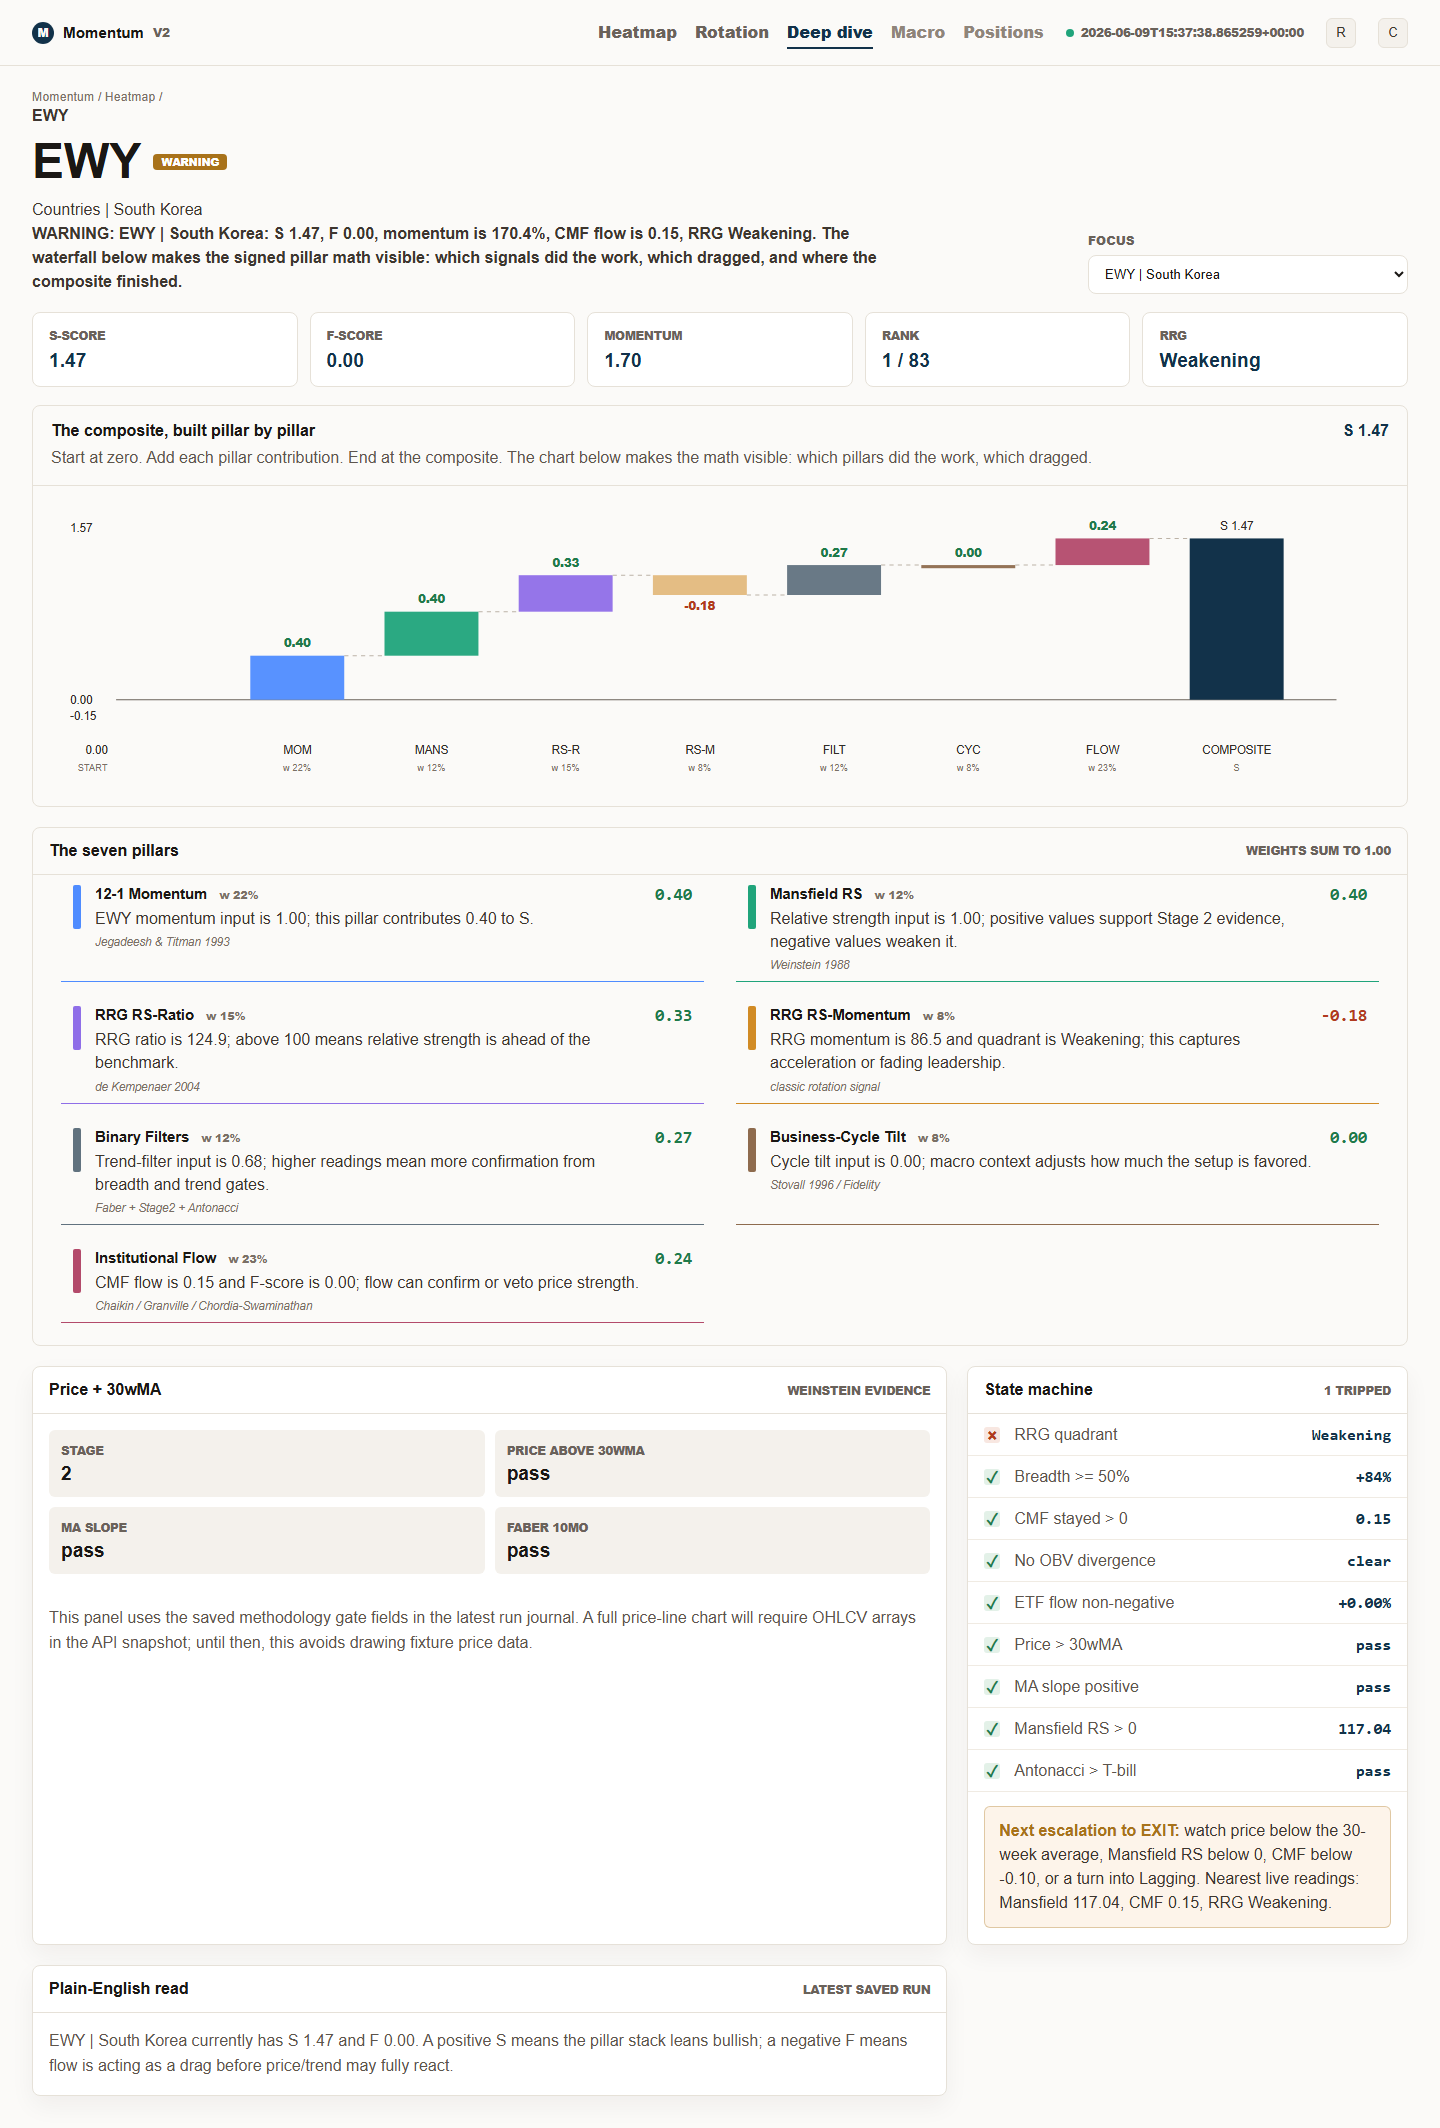
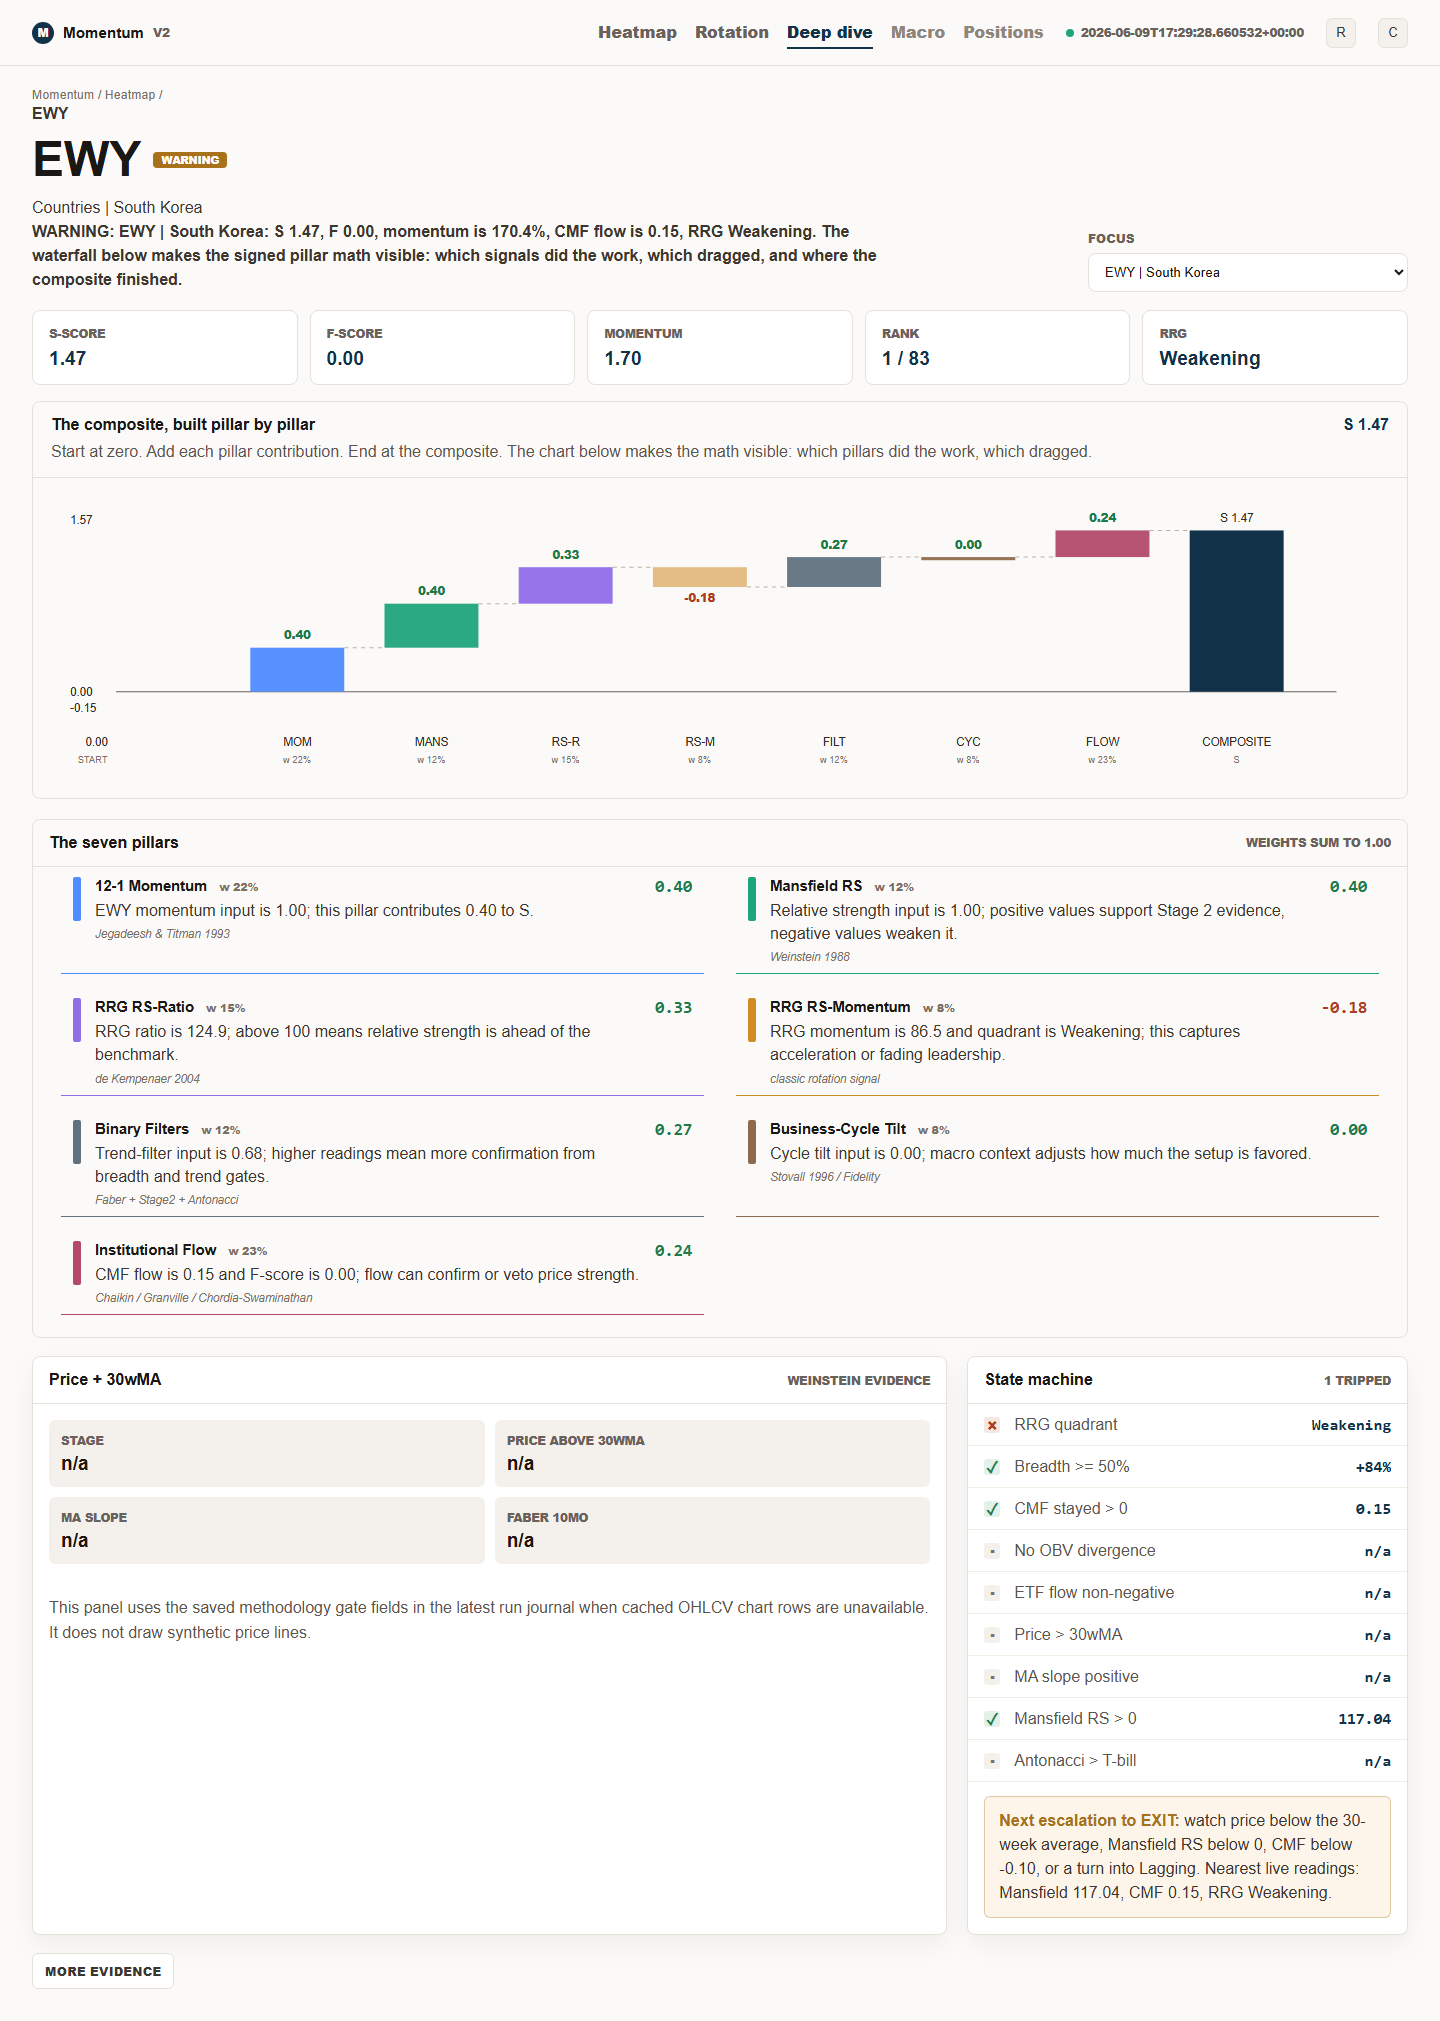
Tighten B-170 handoff screenshot QA

diff --git a/web/app/globals.css b/web/app/globals.css
@@ -139,15 +139,15 @@ main {
 }
 
 .c-screen {
-  padding: 24px 32px 32px;
+  padding: 22px 32px 32px;
 }
 
 .c-weather {
   display: grid;
   grid-template-columns: 1.4fr repeat(5, minmax(0, 1fr));
   gap: 24px;
-  margin-bottom: 20px;
-  padding: 18px 24px;
+  margin-bottom: 18px;
+  padding: 16px 24px;
   background: #fff;
   border: 1px solid #e6e1d8;
   border-radius: 8px;
@@ -156,9 +156,9 @@ main {
 
 .c-weather strong {
   display: block;
-  margin-top: 6px;
+  margin-top: 5px;
   color: #1a1714;
-  font-size: 1.35rem;
+  font-size: 1.26rem;
   line-height: 1.15;
 }
 
@@ -181,7 +181,7 @@ main {
 .c-right-rail {
   display: grid;
   align-content: start;
-  gap: 20px;
+  gap: 18px;
 }
 
 .c-rail-card,
@@ -209,7 +209,7 @@ main {
   gap: 10px;
   align-items: center;
   width: 100%;
-  padding: 10px 16px;
+  padding: 9px 16px;
   color: #1a1714;
   font: inherit;
   text-align: left;
@@ -298,9 +298,9 @@ main {
 }
 
 .c-rail-card p {
-  padding: 16px;
+  padding: 14px 16px;
   color: #6a625a;
-  line-height: 1.5;
+  line-height: 1.42;
 }
 
 .c-deep-header,
@@ -374,7 +374,7 @@ main {
   display: grid;
   grid-template-columns: repeat(5, minmax(0, 1fr));
   gap: 12px;
-  margin-bottom: 18px;
+  margin-bottom: 16px;
 }
 
 .c-stat-deck div {
@@ -404,7 +404,30 @@ main {
   display: grid;
   grid-template-columns: minmax(0, 1.35fr) minmax(320px, 0.65fr);
   gap: 20px;
-  margin-top: 20px;
+  margin-top: 18px;
+}
+
+.c-advanced-evidence {
+  margin-top: 18px;
+}
+
+.c-advanced-evidence summary {
+  display: inline-flex;
+  align-items: center;
+  gap: 8px;
+  padding: 8px 12px;
+  color: #3d362f;
+  font-size: 0.78rem;
+  font-weight: 800;
+  text-transform: uppercase;
+  background: #fff;
+  border: 1px solid #e6e1d8;
+  border-radius: 6px;
+  cursor: pointer;
+}
+
+.c-support-grid-advanced {
+  align-items: start;
 }
 
 .c-gate-row {
@@ -1544,7 +1567,7 @@ select:focus-visible {
   display: flex;
   justify-content: space-between;
   gap: 20px;
-  padding: 16px 18px;
+  padding: 14px 18px;
   border-bottom: 1px solid #e6e1d8;
 }
 
@@ -1617,7 +1640,7 @@ select:focus-visible {
 }
 
 .composition-header {
-  padding: 10px 18px;
+  padding: 8px 18px;
   color: #6a625a;
   background: #f4f1ec;
   font-size: 0.72rem;
@@ -1630,18 +1653,18 @@ select:focus-visible {
 }
 
 .composition-class {
-  padding: 10px 18px 4px;
+  padding: 8px 18px 3px;
   color: #6a625a;
-  font-size: 0.78rem;
+  font-size: 0.74rem;
   font-weight: 800;
 }
 
 .composition-row {
   width: 100%;
-  min-height: 31px;
-  padding: 7px 18px;
+  min-height: 25px;
+  padding: 4px 18px;
   color: #1a1714;
-  font: inherit;
+  font: 700 0.82rem/1.05 Arial, Helvetica, sans-serif;
   text-align: left;
   background: transparent;
   border: 0;
@@ -1685,7 +1708,7 @@ select:focus-visible {
 
 .pillar-stack {
   position: relative;
-  height: 18px;
+  height: 14px;
   background: #ede7dd;
   border: 1px solid #d8d0c4;
   border-radius: 999px;
@@ -1704,8 +1727,8 @@ select:focus-visible {
 
 .pillar-segment {
   position: absolute;
-  top: 3px;
-  height: 10px;
+  top: 2px;
+  height: 8px;
   border-radius: 999px;
 }
 

diff --git a/web/app/dashboard-screens-client.tsx b/web/app/dashboard-screens-client.tsx
@@ -1052,13 +1052,18 @@ function CDeepDiveScreen({
             <strong>Next escalation to EXIT:</strong> watch price below the 30-week average, Mansfield RS below 0, CMF below -0.10, or a turn into Lagging. Nearest live readings: Mansfield {fmt(payloadNumber(focus, "mansfield_rs"), 2)}, CMF {fmt(focus.cmf21, 2)}, RRG {focus.quadrant}.
           </div>
         </div>
-        <div className="c-gate-card">
-          <div className="c-sec-head"><strong>Plain-English read</strong><span>latest saved run</span></div>
-          <p>{focus.display_label} currently has S {fmt(focus.s_score)} and F {fmt(focus.f_score)}. A positive S means the pillar stack leans bullish; a negative F means flow is acting as a drag before price/trend may fully react.</p>
-        </div>
-        <TickerRelativeStrengthPanel row={focus} />
-        <TickerFlowChartPanels row={focus} />
       </div>
+      <details className="c-advanced-evidence">
+        <summary>More evidence</summary>
+        <div className="c-support-grid c-support-grid-advanced">
+          <div className="c-gate-card">
+            <div className="c-sec-head"><strong>Plain-English read</strong><span>latest saved run</span></div>
+            <p>{focus.display_label} currently has S {fmt(focus.s_score)} and F {fmt(focus.f_score)}. A positive S means the pillar stack leans bullish; a negative F means flow is acting as a drag before price/trend may fully react.</p>
+          </div>
+          <TickerRelativeStrengthPanel row={focus} />
+          <TickerFlowChartPanels row={focus} />
+        </div>
+      </details>
     </section>
   );
 }

diff --git a/scripts/serve_next_qa_api.py b/scripts/serve_next_qa_api.py
@@ -49,7 +49,7 @@ PAYLOAD_KEYS_FOR_NEXT_QA = {
 def _compact_snapshot_payload(payload: dict) -> dict:
     """Keep the QA payload strict and small while preserving the Next UI contract."""
 
-    def compact_row(row: dict) -> dict:
+    def compact_row(row: dict, *, include_payload: bool = False) -> dict:
         compact = dict(row)
         pillars = compact.get("pillar_scores")
         if isinstance(pillars, dict):
@@ -58,8 +58,8 @@ def _compact_snapshot_payload(payload: dict) -> dict:
                 for key in sorted(PILLAR_KEYS_FOR_NEXT_QA)
                 if key in pillars
             }
-        row_payload = compact.get("payload")
-        if isinstance(row_payload, dict):
+        row_payload = compact.get("payload") if include_payload else {}
+        if include_payload and isinstance(row_payload, dict):
             compact["payload"] = {
                 key: row_payload.get(key)
                 for key in sorted(PAYLOAD_KEYS_FOR_NEXT_QA)
@@ -77,24 +77,24 @@ def _compact_snapshot_payload(payload: dict) -> dict:
 
     compact = dict(payload)
     compact["rows"] = compact_rows(payload.get("rows"), limit=90)
-    compact["focus"] = compact_row(dict(payload["focus"])) if isinstance(payload.get("focus"), dict) else None
+    compact["focus"] = compact_row(dict(payload["focus"]), include_payload=True) if isinstance(payload.get("focus"), dict) else None
     compact["decisions"] = [
         {**dict(row), "payload": {}}
         for row in payload.get("decisions", [])
         if isinstance(row, dict)
-    ]
+    ][:12]
     screens = dict(payload.get("screens", {}) or {})
     overview = dict(screens.get("overview", {}) or {})
-    overview["leaders"] = compact_rows(overview.get("leaders"), limit=8)
-    overview["risks"] = compact_rows(overview.get("risks"), limit=8)
-    overview["actions"] = compact["decisions"][:12]
+    overview["leaders"] = compact_rows(overview.get("leaders"), limit=1)
+    overview["risks"] = compact_rows(overview.get("risks"), limit=1)
+    overview["actions"] = compact["decisions"][:8]
     deepdive = dict(screens.get("deepdive", {}) or {})
     deepdive["focus"] = compact["focus"]
-    deepdive["peer_rows"] = compact_rows(deepdive.get("peer_rows"), limit=12)
+    deepdive["peer_rows"] = []
     rotation = dict(screens.get("rotation", {}) or {})
-    rotation["sectors"] = compact_rows(rotation.get("sectors"), limit=40)
-    rotation["leaders"] = compact_rows(rotation.get("leaders"), limit=8)
-    rotation["laggards"] = compact_rows(rotation.get("laggards"), limit=8)
+    rotation["sectors"] = compact_rows(rotation.get("sectors"), limit=20)
+    rotation["leaders"] = []
+    rotation["laggards"] = []
     compact["screens"] = {"overview": overview, "deepdive": deepdive, "rotation": rotation}
     return compact
 

diff --git a/scripts/capture_next_handoff_qa.py b/scripts/capture_next_handoff_qa.py
@@ -119,6 +119,18 @@ def _capture(url: str, output_dir: Path, screens: list[str], timeout_ms: int) ->
         page = browser.new_page(viewport={"width": 1440, "height": 1800}, device_scale_factor=1)
         page.goto(url, wait_until="domcontentloaded", timeout=timeout_ms)
         page.locator("main").first.wait_for(timeout=timeout_ms)
+        page.add_style_tag(
+            content="""
+            nextjs-portal,
+            [data-nextjs-toast],
+            [data-nextjs-dialog-overlay],
+            [data-nextjs-dev-tools-button],
+            [data-next-badge-root] {
+              display: none !important;
+              visibility: hidden !important;
+            }
+            """
+        )
         for screen in screens:
             button_name = NEXT_SCREEN_BUTTONS[screen]
             screenshot_path = output_dir / f"next-{screen}.png"

diff --git a/tests/test_next_handoff_qa_script.py b/tests/test_next_handoff_qa_script.py
@@ -1,5 +1,6 @@
 from __future__ import annotations
 
+from pathlib import Path
 import subprocess
 import sys
 
@@ -43,9 +44,15 @@ def test_next_handoff_qa_cli_exposes_similarity_gate_and_next_url():
     assert qa.parse_args([]).url == "http://127.0.0.1:3000/?presentation=c"
 
 
-def test_next_handoff_qa_is_not_imported_by_production_app():
-    from pathlib import Path
+def test_next_handoff_qa_hides_development_overlay_before_capture():
+    source = Path("scripts/capture_next_handoff_qa.py").read_text(encoding="utf-8")
 
+    assert "page.add_style_tag(" in source
+    assert "nextjs-portal" in source
+    assert "[data-next-badge-root]" in source
+
+
+def test_next_handoff_qa_is_not_imported_by_production_app():
     root = Path(__file__).resolve().parent.parent
     app_source = (root / "app.py").read_text(encoding="utf-8")
     page_source = (root / "web" / "app" / "page.tsx").read_text(encoding="utf-8")

diff --git a/tests/test_next_qa_api_script.py b/tests/test_next_qa_api_script.py
@@ -68,7 +68,7 @@ def test_next_qa_api_compacts_snapshot_payload_for_browser_transport():
 
     compact = serve_next_qa_api._compact_snapshot_payload(payload)
 
-    assert compact["rows"][0]["payload"] == {"above_30wma": True, "stage": 2}
+    assert compact["rows"][0]["payload"] == {}
     assert compact["decisions"][0]["payload"] == {}
     assert compact["rows"][0]["pillar_scores"] == {"mom_12_1": 1.0, "rs_ratio": 101}
     assert compact["focus"]["pillar_scores"] == {"cmf21": 0.1}

diff --git a/docs/superpowers/plans/2026-06-08-b170-production-dashboard-migration.md b/docs/superpowers/plans/2026-06-08-b170-production-dashboard-migration.md
@@ -79,7 +79,8 @@ Start by extracting pure response contracts and optional API boundaries. Do not 
 - [x] Add Playwright screenshot QA against the design handoff PNG/HTML references.
   - [x] `scripts/capture_next_handoff_qa.py` captures Overview, Deep Dive, and Rotation against C1/C2/C3 references.
   - [x] `scripts/serve_next_qa_api.py` provides a QA-only read-only API fallback when FastAPI is not installed locally.
-  - [x] Latest evidence targets `http://127.0.0.1:3100/?presentation=c`; required text/nonblank checks pass for C1/C2/C3 with current similarity around 0.79 overview, 0.84 deep dive, and 0.85 rotation while remaining below a pixel-parity release gate.
+  - [x] Latest evidence targets `http://127.0.0.1:3100/?presentation=c`; required text/nonblank checks pass for C1/C2/C3 with current similarity 0.7763 overview, 0.8386 deep dive, and 0.8496 rotation while remaining below a pixel-parity release gate.
+  - [x] The screenshot QA helper now hides the Next development overlay before capture and compacts duplicate snapshot sections below the local transport limit while preserving the current real row universe.
   - [ ] Raise visual similarity through layout/pixel-parity tickets before using the similarity score as a release gate.
 - [x] Add Pi systemd/API deployment docs and Cloudflare route plan.
 - [ ] Retire the Streamlit route only after feature parity, data parity, visual parity, and rollback path are documented.

diff --git a/docs/BACKLOG.md b/docs/BACKLOG.md
@@ -16,7 +16,7 @@ Status legend:
 **Behavior:** adds a pure JSON status contract for dashboard health lanes and an optional FastAPI app factory with `/api/v1/health`, `/api/v1/status`, `GET /api/v1/data-health`, `GET /api/v1/provider-health`, `GET /api/v1/dashboard-snapshot`, `GET /api/v1/backtest-artifacts`, `GET /api/v1/ticker-chart`, `POST /api/v1/portfolio/analyze`, `GET /api/v1/portfolios`, `POST /api/v1/portfolios`, `DELETE /api/v1/portfolios?name=...`, `POST /api/v1/refresh`, `GET /api/v1/refresh/{job_id}`, and `GET /api/v1/refresh/{job_id}/events`. The default API status provider reads persisted state-machine storage, run-journal metadata, and Massive provider-snapshot coverage without importing Streamlit, fetching providers, recomputing indicators, or mutating live scoring state. The data/provider-health API additionally exposes provider-flow readiness and provider-flow cache coverage from persisted/configured state only, so future clients can show provider health without live provider calls. The backtest artifact API reports existing manual report/equity/state artifact presence, timestamps, hashes, metadata verification state, report text, and equity rows without running backtests, calibration, provider fetches, or research jobs; the Next shell consumes it in a collapsed Backtest Lab panel with artifact statuses, report preview, and an API-row equity preview. The ticker chart API reads cached OHLCV only, computes weekly close, 30-week moving average, CMF(21), OBV, OBV slope, benchmark-relative RS ratio, 12-week momentum, and 52-week momentum rows, and the React C2 deep dive fetches the selected ticker chart asynchronously while falling back to saved gate evidence if cached chart data is unavailable. The portfolio analysis API accepts a single ticker, JSON holdings, CSV text, or base64 CSV/XLSX content and maps holdings onto the latest persisted dashboard snapshot without provider fetches, scoring recompute, broker calls, portfolio persistence, or state writes; saved-portfolio routes explicitly reuse `data/saved_inputs.json` for named portfolio list/save/delete. The Next shell now includes an API-backed portfolio analyzer for ticker, pasted CSV, and uploaded CSV/XLS/XLSX inputs, with exposure summaries, missing ticker diagnostics, click-through rows into the dashboard focus, and explicit save/load/delete controls for named portfolios. Refresh jobs and progress events are persisted in local SQLite so a future React/Next.js frontend can create refresh requests and reconnect to progress state while the current dashboard keeps running. The refresh endpoint is queue-only by default; when a caller explicitly sends `run_now: true`, `src/api_refresh_runner.py` executes the existing headless Massive/FRED/dashboard refresh sequence and records phase progress. The first Next.js shell under `web/` consumes `/api/v1/health`, `/api/v1/data-health`, and `/api/v1/dashboard-snapshot`, renders persisted/provider health lanes plus A/B/C overview, deep-dive, and rotation sections from the latest run-journal snapshot, keeps provider calls behind the API, and now has native React screen selection, sortable overview lists, ticker focus selection, click-through cards/rows, rotation quadrant filtering, API-fed SVG primitives for pillar-stack rows, ticker waterfall, RRG, momentum bars, a relative-strength/momentum deep-dive panel, and a data-derived flow river, a light `?presentation=c` Display C candidate layout, plus a repeatable Playwright screenshot QA harness against the C1/C2/C3 handoff PNGs.
 **Activation:** install `requirements.txt`, build the Next app with `npm --prefix web run build`, then optionally install the candidate `sector-api.service` and `sector-next.service` templates; no Pi service switch is made by this ticket.
 **Migration plan:** keep Streamlit as the production frontend until API-backed React screens reach parity. The candidate API/Next services and Cloudflare route plan are documented for a separate `next-sentimentdashboard.ahaddashboards.uk` hostname, while `sentimentdashboard.ahaddashboards.uk` stays routed to Streamlit. Streamlit route remains production until feature parity, data parity, visual parity, and rollback gates are accepted.
-**Evidence:** Next handoff browser QA screenshots and similarity report are stored in `docs/browser-qa/next-handoff/latest`; the latest `?presentation=c` run has required text/nonblank passes for C1/C2/C3 with current similarity around 0.789 for overview, 0.838 for deep dive, and 0.85 for rotation. The overview now uses cumulative stacked pillar bars and a data-backed saved-portfolio positions rail instead of handoff fixture holdings. The deep dive now has a C2-style waterfall, weighted pillar-detail cards with evidence tags, and run-journal-backed gate/evidence panels without drawing fixture price data.
+**Evidence:** Next handoff browser QA screenshots and similarity report are stored in `docs/browser-qa/next-handoff/latest`; the latest `?presentation=c` run has required text/nonblank passes for C1/C2/C3 with current similarity 0.7763 for overview, 0.8386 for deep dive, and 0.8496 for rotation. The overview now uses cumulative stacked pillar bars and a data-backed saved-portfolio positions rail instead of handoff fixture holdings, with the QA helper preserving the current real row universe while trimming duplicate transport payload sections. The deep dive now has a C2-style waterfall, weighted pillar-detail cards with evidence tags, run-journal-backed gate/evidence panels, and collapsed advanced evidence so the first-pass visual structure remains closer to the handoff while retaining extra real-data panels on demand.
 **Residual risk:** this is a foundation slice only. The API runner can execute the real headless refresh when explicitly requested, and the initial Next shell now has lockfile/audit/build evidence plus journal-backed A/B/C screen foundations, native React interactions, API-fed chart primitives, async cached ticker price/flow/relative-strength/momentum chart data, screenshot QA evidence, read-only portfolio analysis API/UI coverage, explicit saved-portfolio API/UI persistence coverage, read-only backtest artifact API/UI coverage, and candidate service/route templates. The candidate services are not yet installed as the live production route, and there is not yet handoff-pixel A/B/C React parity or an accepted Streamlit retirement decision.
 
 ### B-001 · HTML render fix for action cards (BLUF) - IMPLEMENTED